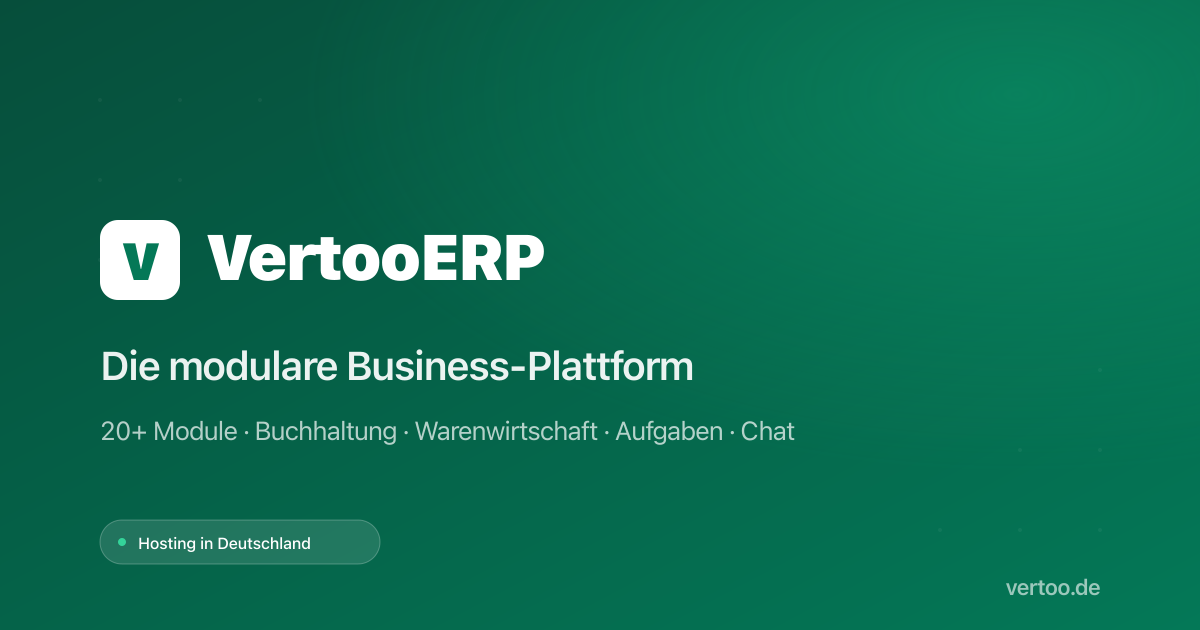
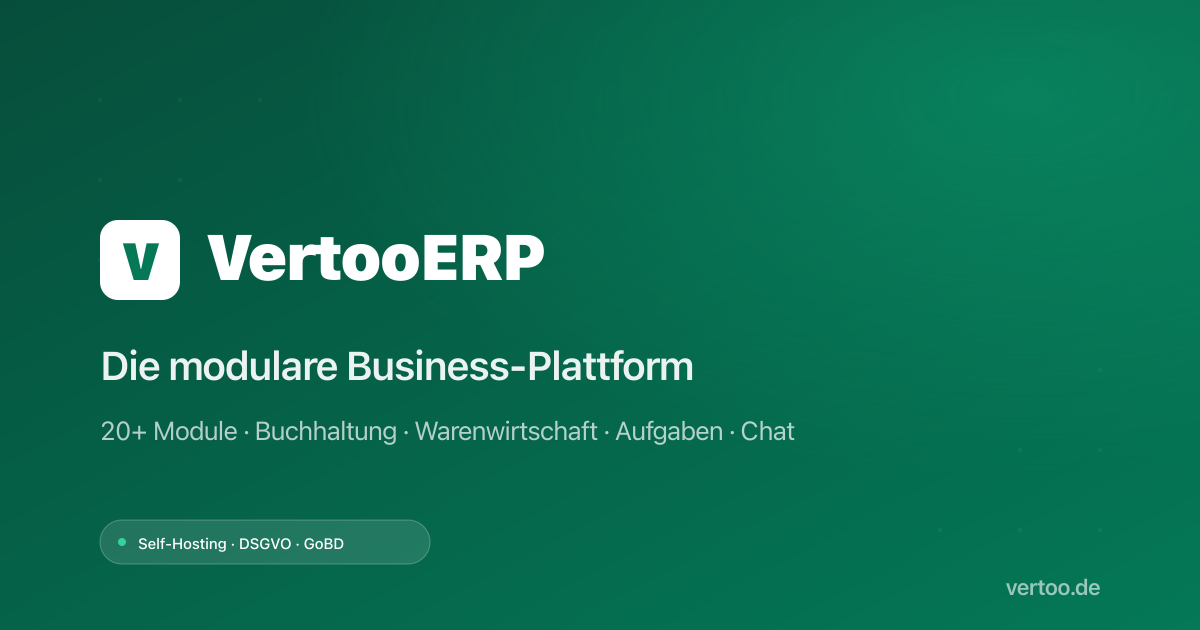
refactor: Hosting-Argument auf Self-Hosting/On-Premises umstellen
Kunden hosten VertooERP selbst (Lizenzmodell) — "Hosting in Deutschland"
suggerierte fälschlich, tap & type stelle die Server. Korrektes und
stärkeres Argument: Self-Hosting = volle Datenhoheit.

Geänderte Marketing-Stellen:
- Footer Trust-Badge: "Server in Deutschland" → "Self-Hosting / On-Premises"
  (Server-Icon statt Flagge, konsistent als SVG)
- TechSecurity: "Hosting in Deutschland / deutsche Server" →
  "Self-Hosting / On-Premises / volle Datenhoheit, kein Cloud-Zwang"
- Hero: "entwickelt und gehostet in Deutschland" → "entwickelt in
  Deutschland, gehostet auf Ihren Servern"; Subtext-Badge → Self-Hosting
- branchen.ts + index.astro JSON-LD: Hosting-Claim → Self-Hosting,
  DSGVO- und GoBD-konform
- OG-Image-Badge: "Hosting in Deutschland" → "Self-Hosting · DSGVO · GoBD"
  (PNG neu generiert)

Compliance-Argument (DSGVO + GoBD) bleibt, Datenhoheit ersetzt das
Hosting-Argument.

Changed region(s): [[0.0925, 0.8143, 0.37, 0.9048]]

diff --git a/src/data/branchen.ts b/src/data/branchen.ts
@@ -50,7 +50,7 @@ export const branchen: Branche[] = [
     icon: '🛒',
     metaTitle: 'ERP für Handel & E-Commerce – VertooERP',
     metaDescription:
-      'Modulares ERP für Online- und stationären Handel: Warenwirtschaft, Lager, Dropshipping, Webshop, Bonuspunkte und Marktpreis-Check. Hosting in Deutschland.',
+      'Modulares ERP für Online- und stationären Handel: Warenwirtschaft, Lager, Dropshipping, Webshop, Bonuspunkte und Marktpreis-Check. Self-Hosting, DSGVO- und GoBD-konform.',
     hero: {
       eyebrow: 'Für Handel & E-Commerce',
       headline: 'ERP für den Handel — von Wareneingang bis Kundenbindung',